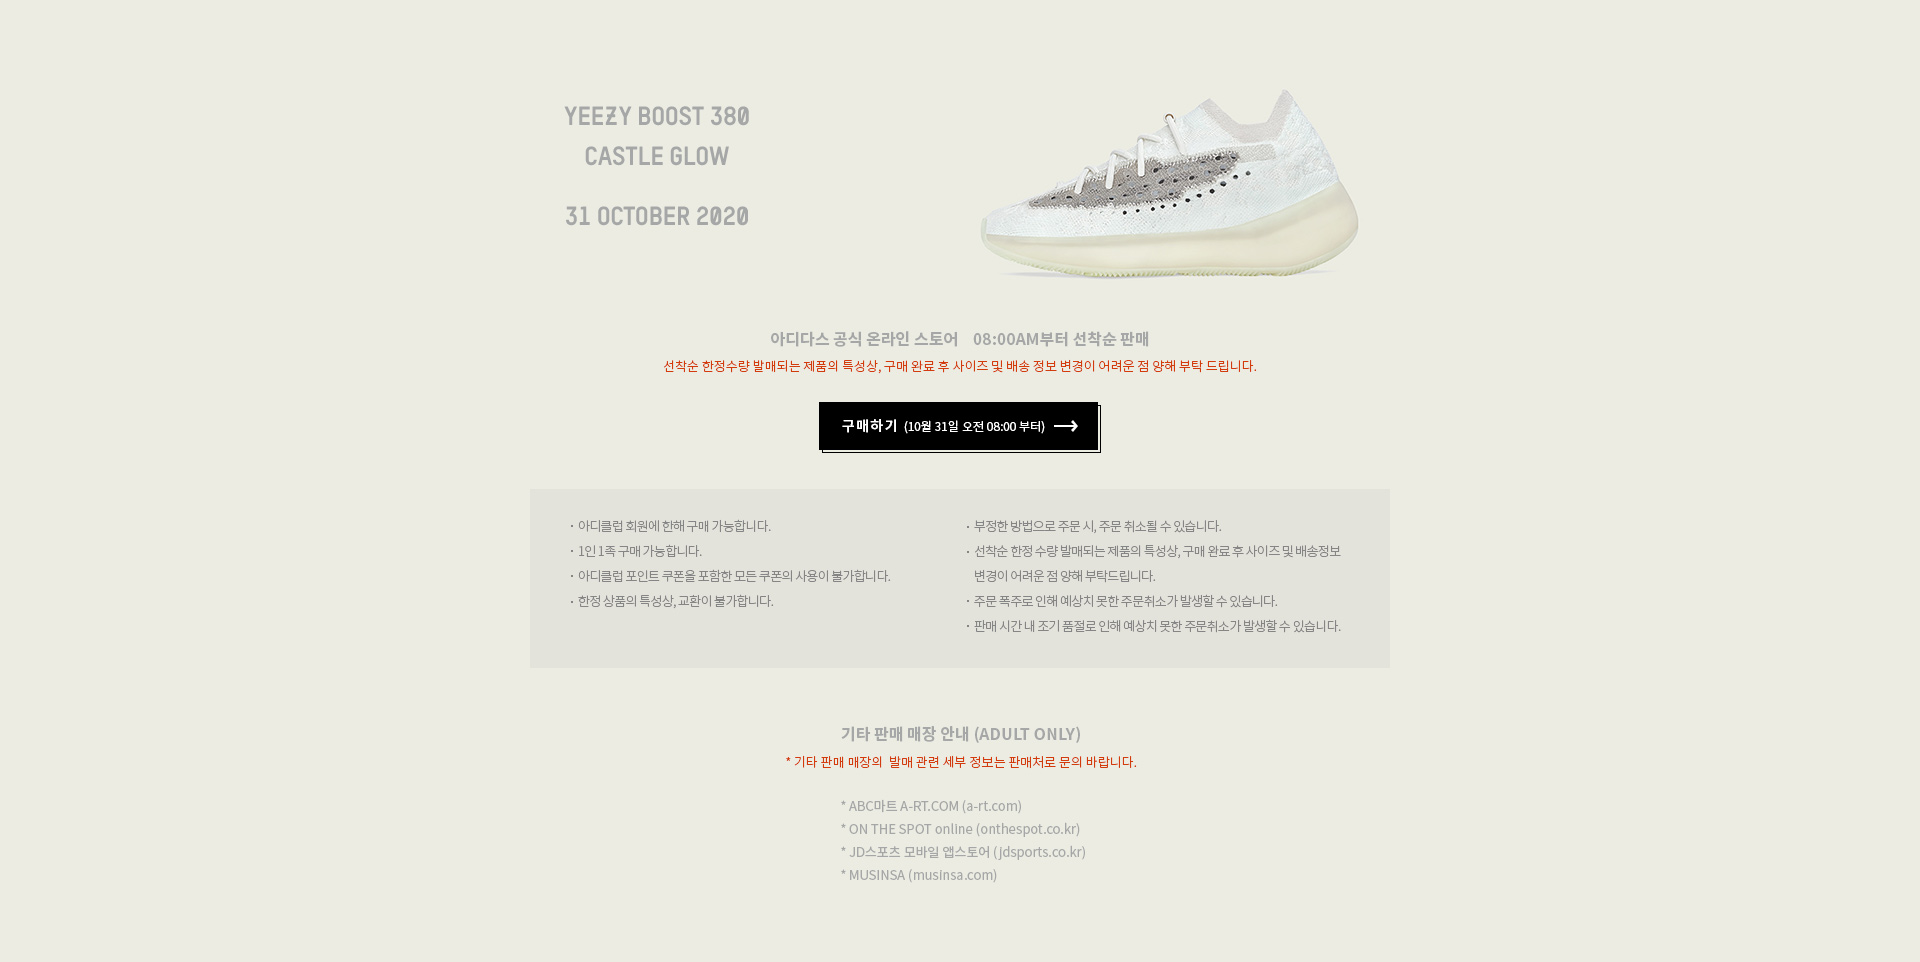
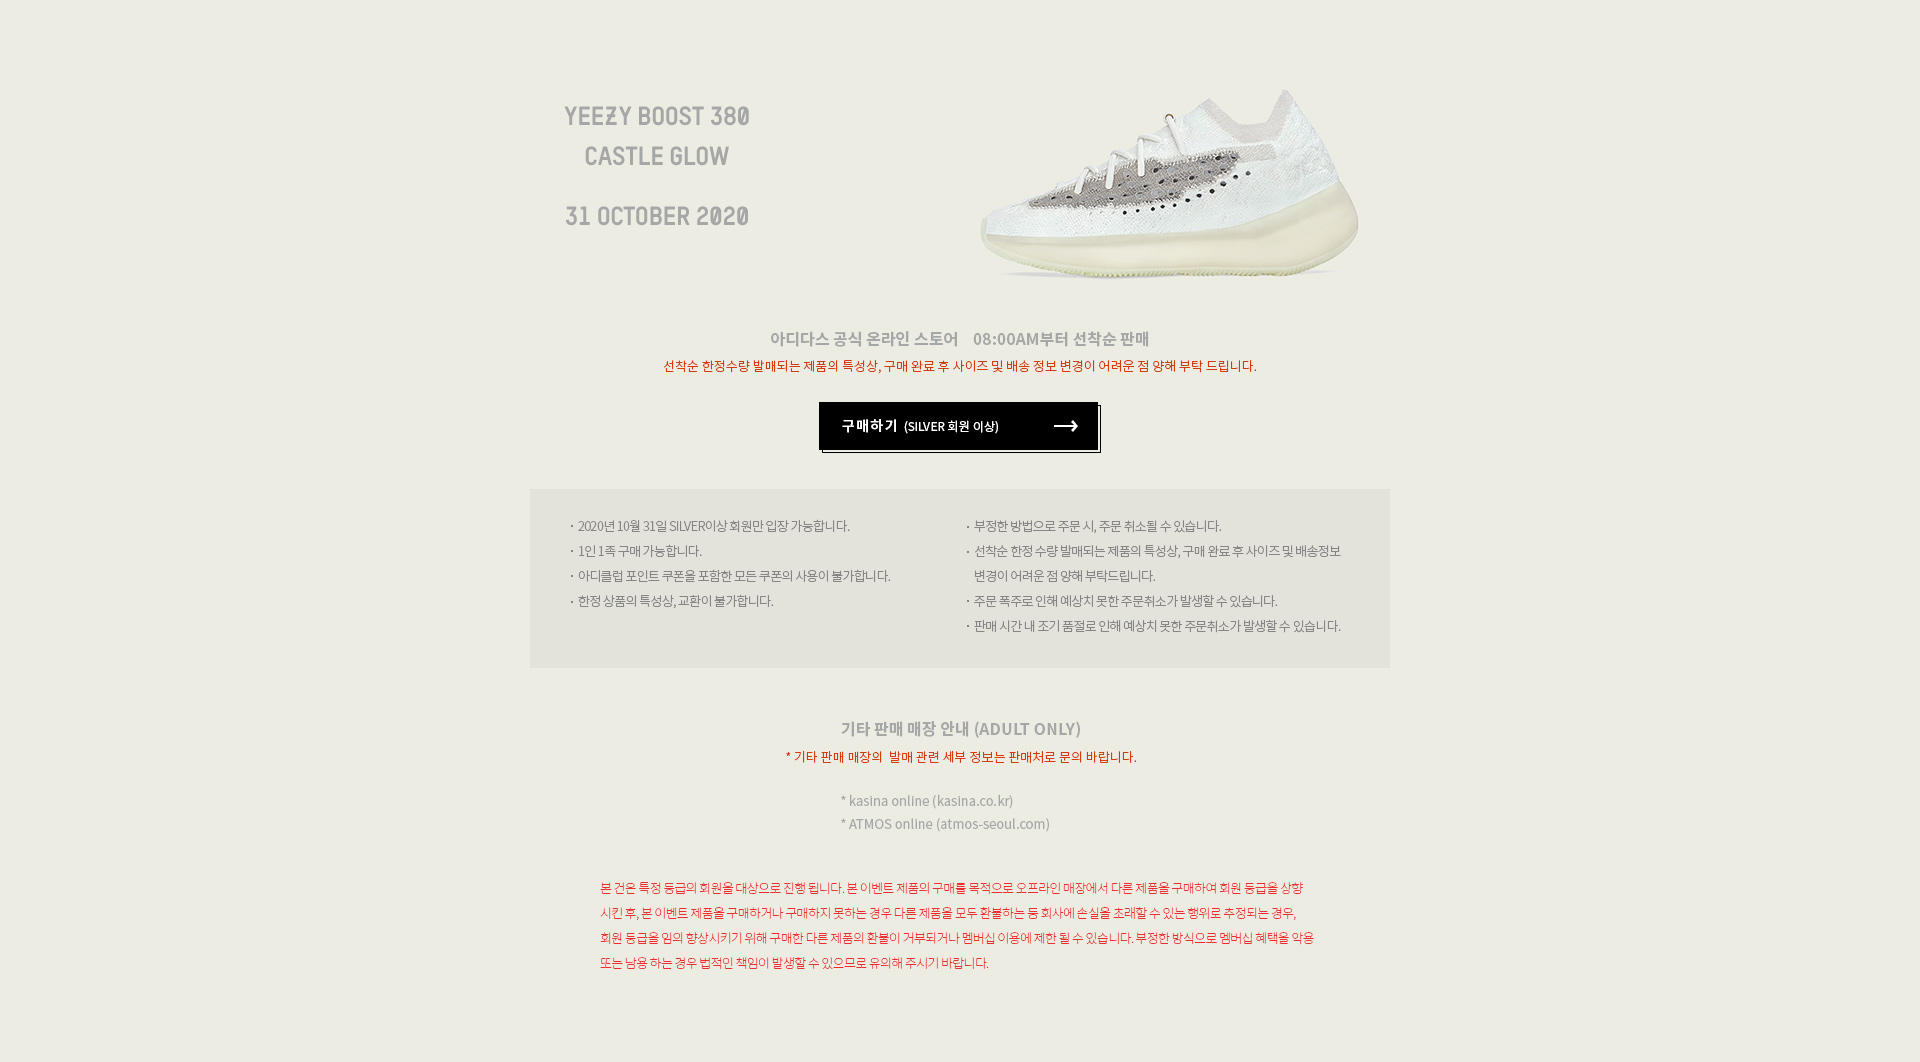
-

diff --git a/front/html/adidas/html/pn/YEEZY_INFORMATION.html b/front/html/adidas/html/pn/YEEZY_INFORMATION.html
@@ -5,7 +5,7 @@
 				<script type="text/javascript" src="//image.adidas.co.kr//js/adidas/event/commonCampaign.js"></script>
 			
 				<div id="yeezy_no_raffle">
-					<div class="visual" style="height:962px;">
+					<div class="visual" style="height:1062px;">
 					<div class="bg">
 						<img src="/images/adidas/2020/event/yeezy_information/1027/yeezy_DT.jpg" alt="" border="0" usemap="#map01">
 						<map name="map01" id="map01" >

diff --git a/front/html/adidas/2020/event/yeezy_information/build/index.html b/front/html/adidas/2020/event/yeezy_information/build/index.html
@@ -45,7 +45,7 @@
 			<script type="text/javascript" src="//image.adidas.co.kr//js/adidas/event/commonCampaign.js"></script>
 		
 			<div id="yeezy_no_raffle">
-				<div class="visual" style="height:962px;">
+				<div class="visual" style="height:1062px;">
 					<div class="bg">
 						<img src="/images/adidas/2020/event/yeezy_information/1027/yeezy_DT.jpg" alt="" border="0" usemap="#map01">
 						<map name="map01" id="map01" >

diff --git a/front/html/adidas/2020/event/yeezy_information/index.html b/front/html/adidas/2020/event/yeezy_information/index.html
@@ -43,7 +43,7 @@
 			<script type="text/javascript" src="//image.adidas.co.kr//js/adidas/event/commonCampaign.js"></script>
 		
 			<div id="yeezy_no_raffle">
-				<div class="visual" style="height:962px;">
+				<div class="visual" style="height:1062px;">
 					<div class="bg">
 						<img src="/images/adidas/2020/event/yeezy_information/1027/yeezy_DT.jpg" alt="" border="0" usemap="#map01">
 						<map name="map01" id="map01" >
